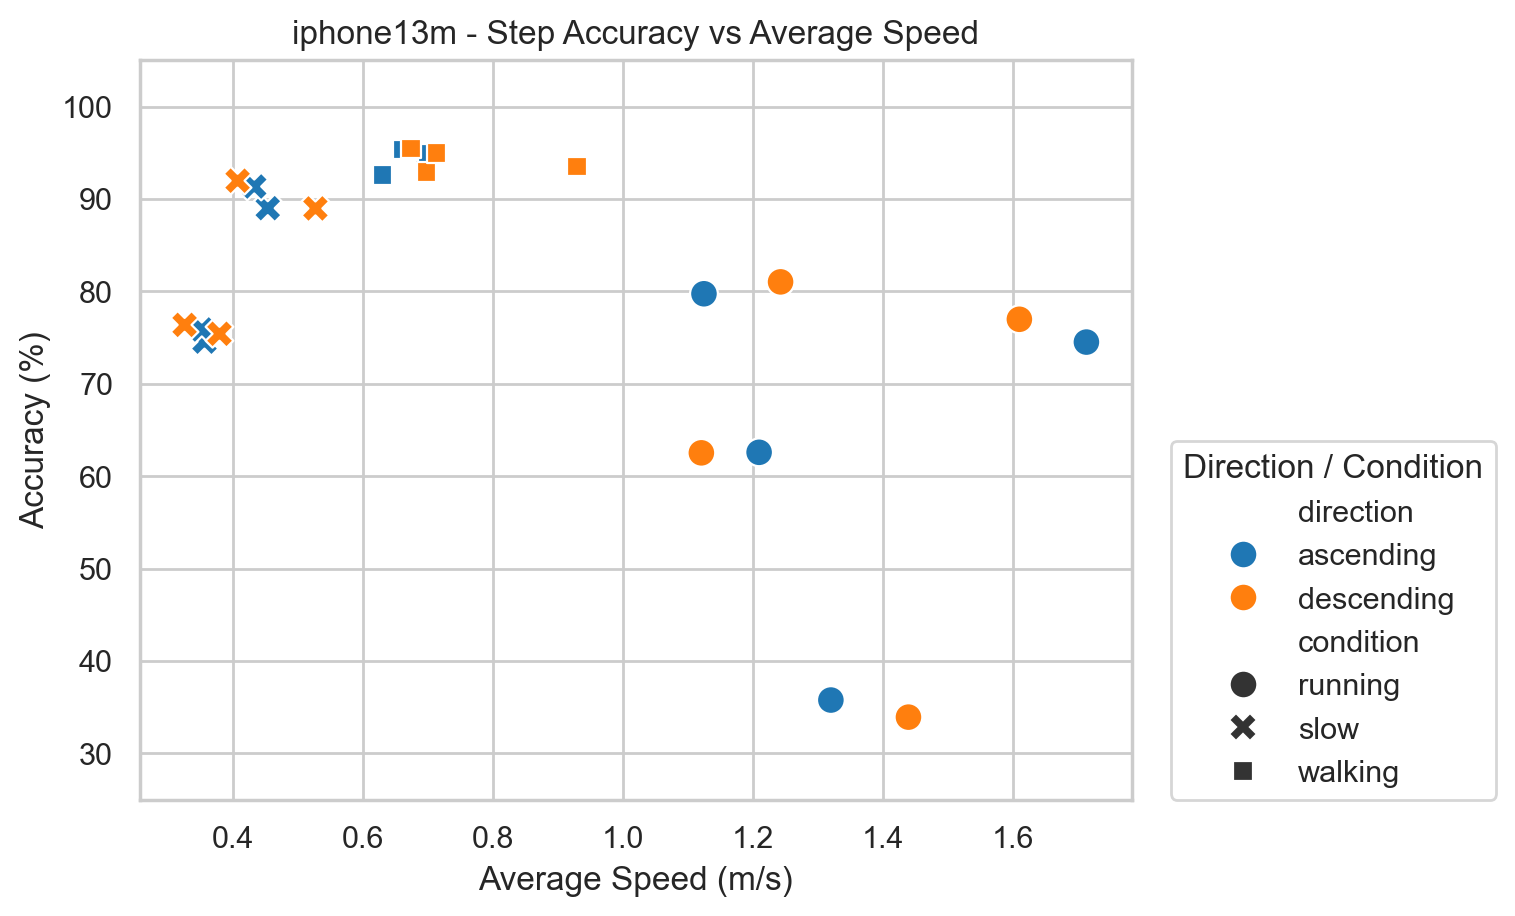
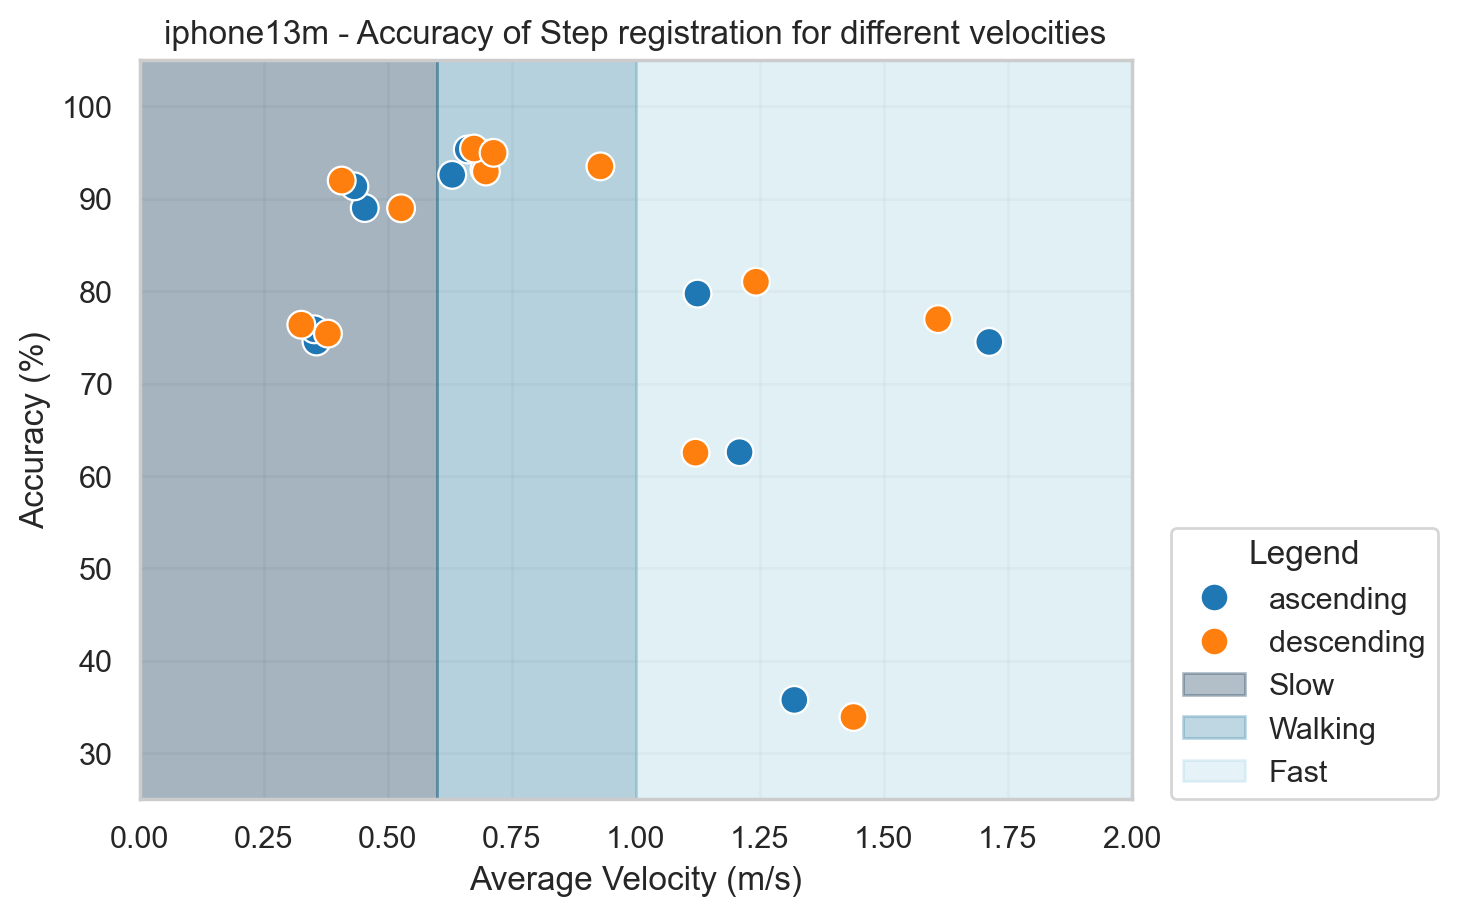
graph chances

diff --git a/steps_analysis.py b/steps_analysis.py
@@ -1,8 +1,10 @@
 import pandas as pd
 import matplotlib.pyplot as plt
 import seaborn as sns
+import numpy as np
 
 from sklearn.metrics import accuracy_score, confusion_matrix, ConfusionMatrixDisplay
+import matplotlib.patches as mpatches
 
 # ----------------------------------------  Load in dataset  -------------------------------------------------------------------------
 
@@ -31,7 +33,7 @@ def total_accuracy_per_person(data):
     global acc_df
     for (group_selection, rows) in grouped_phone_condition_person:
         accuracy = accuracy_evaluation(rows)
-
+        accuracy = accuracy * 100
         phone = group_selection[0]
         condition = group_selection[1]
         person = group_selection[2]
@@ -43,7 +45,7 @@ def total_accuracy_per_person(data):
 
         print(f"Accuracy for {condition}, {floors} floor(s) by {person} with ({phone}): {accuracy}")
 
-total_accuracy_per_person(all_data)
+# total_accuracy_per_person(all_data)
 
 # Group by phone, condition, and floors
 grouped_phone_condition = df.groupby(["phone", "condition", "floors"])
@@ -182,35 +184,95 @@ def get_average_speed():
 
 # ----------------------------------------  Make plots ---------------------------------------------------------------
 
-def plot_acc_velocity(plot):
-    global acc_df
+def plot_acc_velocity(plot):    
+
     for device in ["iphone13m", "iphoneSE"]:
         iphone_se_df = acc_df[acc_df["phone"] == device]
-
+        
         sns.set(style="whitegrid")
-        if plot == "Step":
-            sns.scatterplot(data=iphone_se_df, x="avg_speed", y="accuracy", hue="direction", style="condition", s=100,
-                            palette={"ascending": "#1f77b4", "descending": "#ff7f0e"})
-        else:
-            sns.scatterplot(data=iphone_se_df, x="avg_speed", y="accuracy", hue="floors", style="condition", s=100,
-                            palette={1: "#1f77b4", 2: "#ff7f0e"})
+        fig, ax = plt.subplots()
 
-        plt.title(f"{device} - {plot} Accuracy vs Average Speed")
-        plt.xlabel("Average Speed (m/s)")
-        plt.ylabel("Accuracy (%)")
+        # --- Background regions ---
+        slow_color = "#012a4a"
+        walking_color = "#2c7da0"
+        fast_color = "#a9d6e5"
+
+        ax.axvspan(0, 0.6, color=slow_color, alpha=0.35)
+        ax.axvspan(0.6, 1, color=walking_color, alpha=0.35)
+        ax.axvspan(1, 2.0, color=fast_color, alpha=0.35)
+
+        # --- Scatter plot ---
         if plot == "Step":
-            plt.ylim([25, 105])
-        plt.legend(title="Direction / Condition", loc=(1.04, 0))
-        plt.savefig(f"{device} - {plot} Accuracy vs Average Speed", dpi=200, bbox_inches='tight', pad_inches=0.1 )
+            scatter = sns.scatterplot(
+                data=iphone_se_df,
+                x="avg_speed",
+                y="accuracy",
+                hue="direction",
+                s=100,
+                palette={"ascending": "#1f77b4", "descending": "#ff7f0e"},
+                ax=ax
+            )
+        else:
+            scatter = sns.scatterplot(
+                data=iphone_se_df,
+                x="avg_speed",
+                y="accuracy",
+                hue="floors",
+                s=100,
+                palette={1: "#1f77b4", 2: "#ff7f0e"},
+                ax=ax
+            )
+
+        # --- Create background legend handles ---
+        slow_patch = mpatches.Patch(color=slow_color, alpha=0.3, label="Slow")
+        walking_patch = mpatches.Patch(color=walking_color, alpha=0.3, label="Walking")
+        fast_patch = mpatches.Patch(color=fast_color, alpha=0.3, label="Fast")
+
+        # --- Combine legends ---
+        handles, labels = ax.get_legend_handles_labels()
+        handles.extend([slow_patch, walking_patch, fast_patch])
+
+        floor_labels = ["1 floor" if l == "1" else "2 floors" if l == "2" else l for l in labels]
+        
+        ax.legend(
+            handles=handles,
+            labels=floor_labels + ["Slow", "Walking", "Fast"],
+            loc=(1.04, 0),
+            title="Legend"
+        )
+
+        # --- Labels & formatting ---
+        ax.set_title(f"{device} - Accuracy of {plot} registration for different velocities")
+        ax.set_xlabel("Average Velocity (m/s)")
+        ax.set_ylabel("Accuracy (%)")
+        
+        ax.set_xticks(np.arange(0, 2.1, 0.25))   # 0 → 2 in steps of 0.25
+        ax.set_yticks(np.arange(0, 105 + 1, 10))
+
+        if plot == "Step":
+            ax.set_ylim([25, 105])
+        else:
+            ax.set_ylim([-5, 105])
+
+        ax.set_xlim([0, 2])
+        ax.grid(True, alpha=0.2)
+
+        plt.savefig(
+            f"{device} - {plot} Accuracy vs Average Speed",
+            dpi=200,
+            bbox_inches='tight',
+            pad_inches=0.1
+        )
         plt.show()
 
 # ----------------------------------------  Choose which accuracy you want to calculate ---------------------------------------
 
-plot = ("Step")
-steps_acc()
 
-# plot = ("Floor")
-# total_accuracy_per_person(df)
+# plot = ("Step")
+# steps_acc()
+
+plot = ("Floor")
+total_accuracy_per_person(df)
 
 
 get_average_speed()
